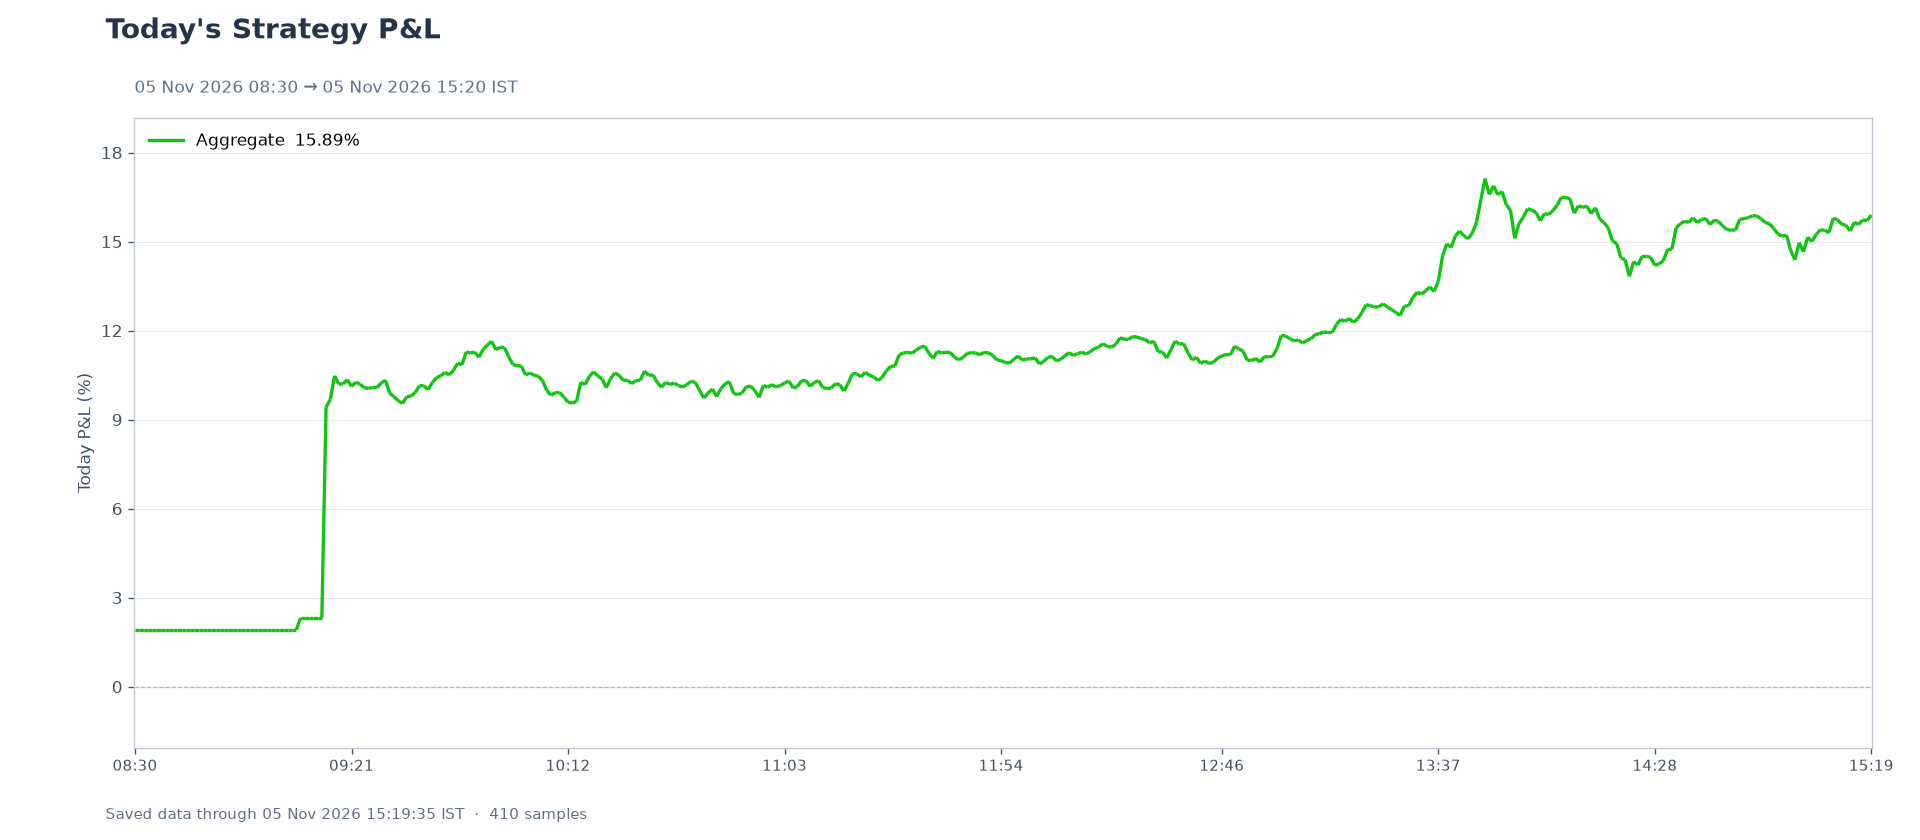
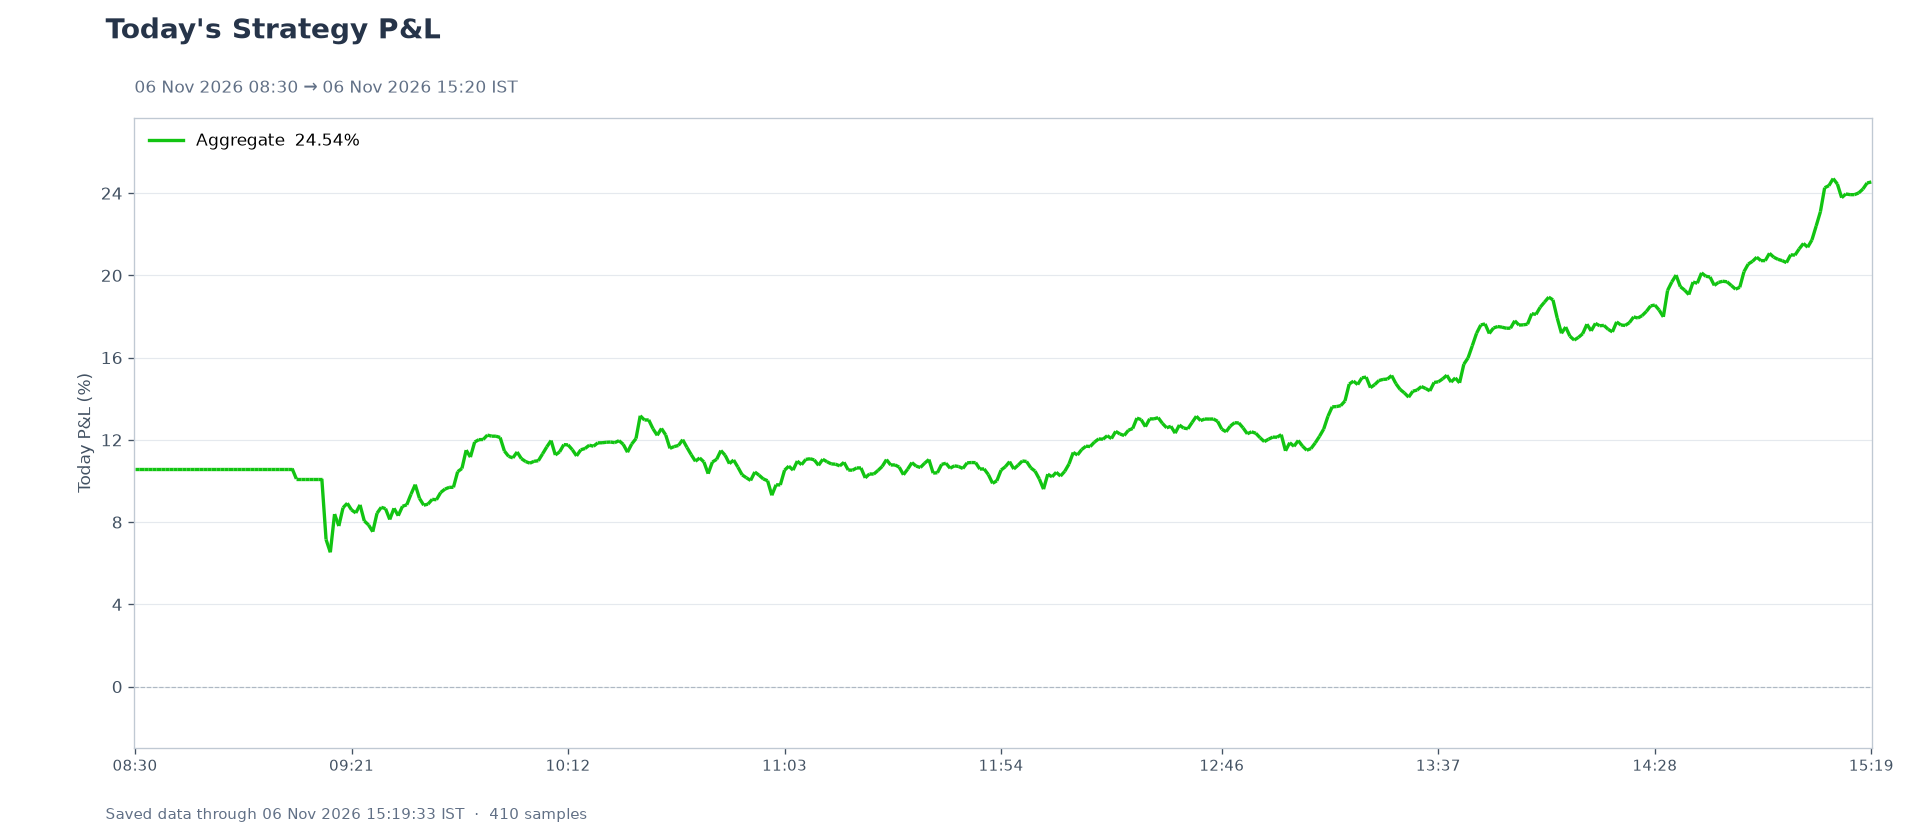
Nabz report 2026-11-06

diff --git a/content/daily/20261106.md b/content/daily/20261106.md
@@ -1,0 +1,9 @@
+---
+title: "20261106"
+date: 2026-11-06T15:20:00+05:30
+slug: "20261106"
+folder: "20261106"
+iso_date: "2026-11-06"
+preview: false
+strategy_today: "1520-start0830-strategy-today-REL.png"
+---

diff --git a/content/i/fb65cbf0dd5c5ab7b084.md b/content/i/fb65cbf0dd5c5ab7b084.md
@@ -1,0 +1,4 @@
+---
+title: "Today's P&L"
+image: "i/fb65cbf0dd5c5ab7b084.png"
+---
